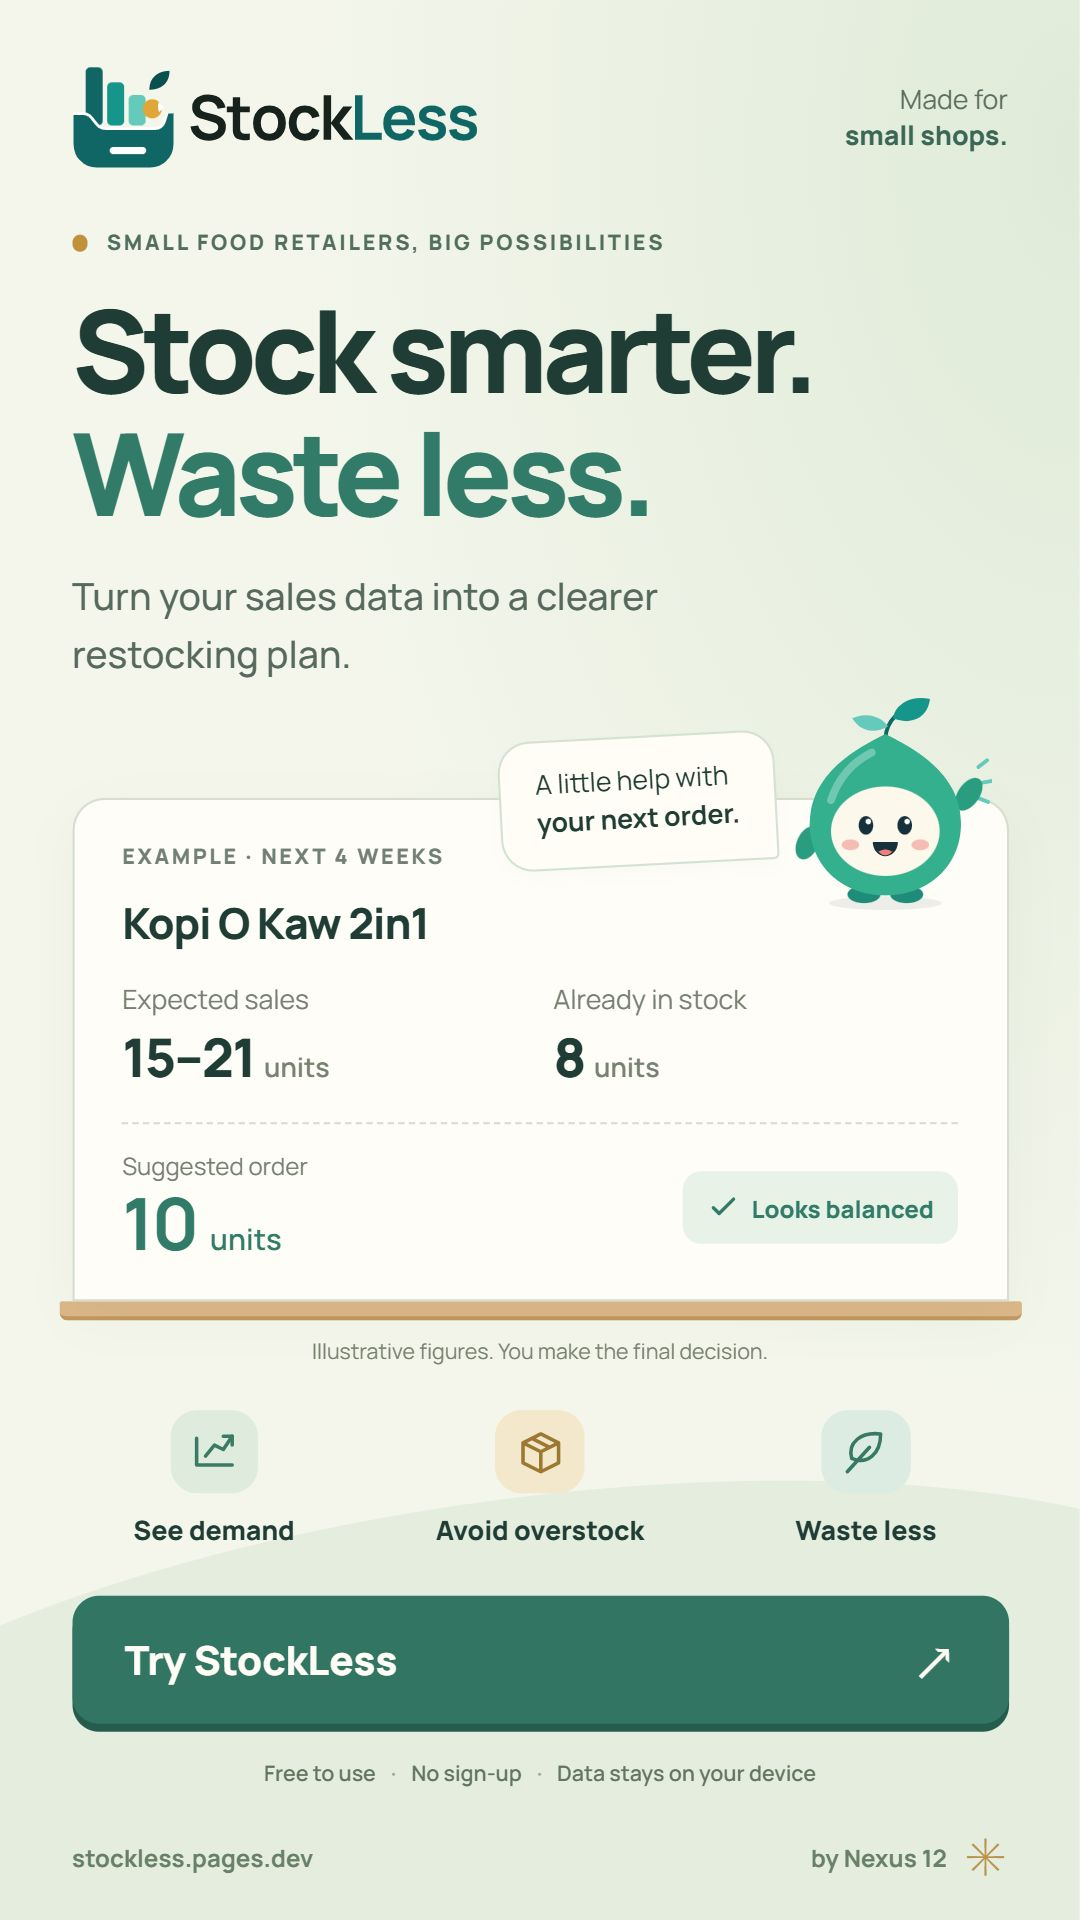
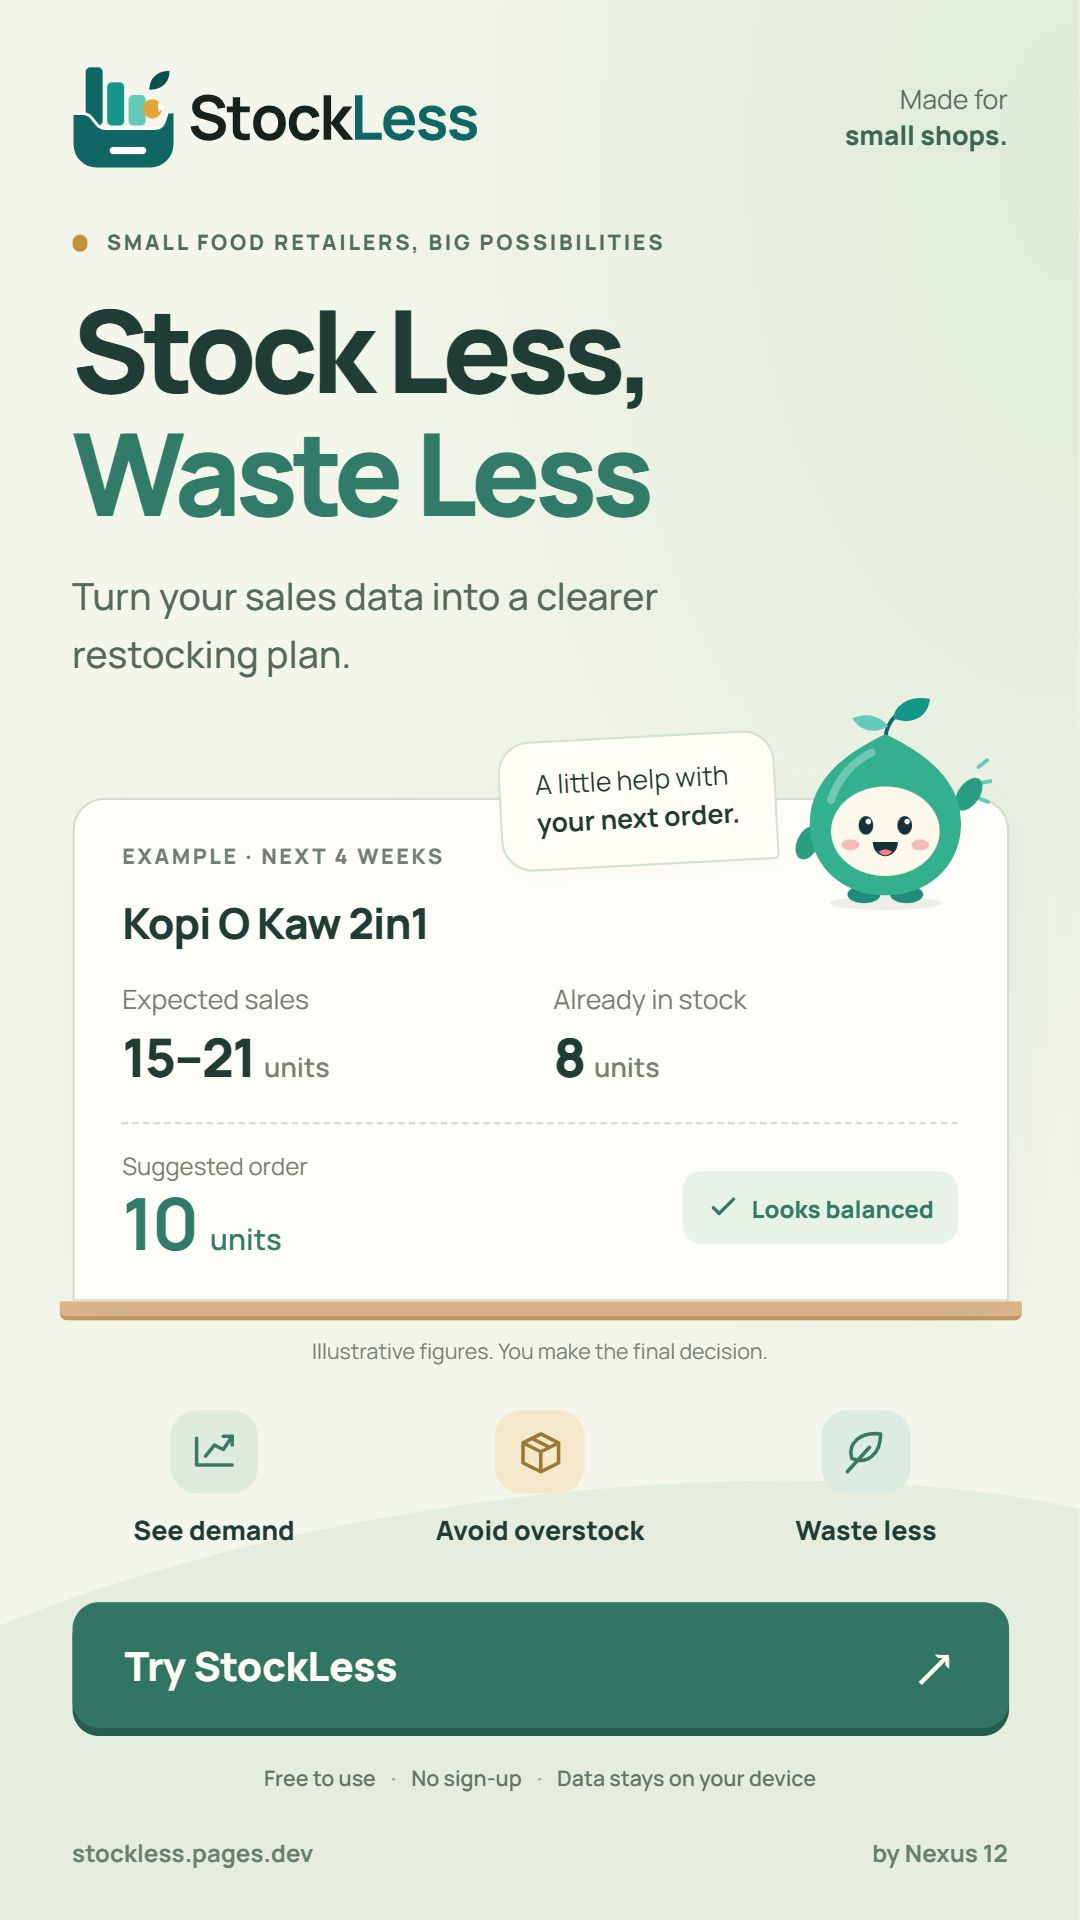
Update expo flyer tagline and simplify footer

diff --git a/frontend/public/flyer/index.html b/frontend/public/flyer/index.html
@@ -4,9 +4,9 @@
     <meta charset="UTF-8" />
     <meta name="viewport" content="width=device-width, initial-scale=1" />
     <meta name="theme-color" content="#edf4e9" />
-    <meta name="description" content="Stock smarter. Waste less. StockLess turns sales data into clearer restocking plans for small food retailers." />
+    <meta name="description" content="Stock Less, Waste Less. StockLess turns sales data into clearer restocking plans for small food retailers." />
     <meta property="og:type" content="website" />
-    <meta property="og:title" content="StockLess | Stock smarter. Waste less." />
+    <meta property="og:title" content="StockLess | Stock Less, Waste Less" />
     <meta property="og:description" content="Smarter restocking for small food retailers. Free to use, with no sign-up." />
     <meta property="og:url" content="https://stockless.pages.dev/flyer/" />
     <meta property="og:image" content="https://stockless.pages.dev/flyer/stockless-flyer.png" />
@@ -17,7 +17,7 @@
     <link rel="preload" href="./manrope-latin.woff2" as="font" type="font/woff2" crossorigin />
     <link rel="stylesheet" href="./flyer.css" />
     <script src="./flyer.js" defer></script>
-    <title>StockLess | Stock smarter. Waste less.</title>
+    <title>StockLess | Stock Less, Waste Less</title>
   </head>
   <body>
     <main class="flyer" aria-labelledby="flyer-title">
@@ -28,7 +28,7 @@
 
       <section class="introduction" aria-labelledby="flyer-title">
         <p class="eyebrow"><span></span> SMALL FOOD RETAILERS, BIG POSSIBILITIES</p>
-        <h1 id="flyer-title">Stock smarter.<br /><em>Waste less.</em></h1>
+        <h1 id="flyer-title">Stock Less,<br /><em>Waste Less</em></h1>
         <p class="lede">Turn your sales data into a clearer<br class="wide-only" /> restocking plan.</p>
       </section>
 
@@ -55,7 +55,7 @@
         <p class="trust">Free to use <span>·</span> No sign-up <span>·</span> Data stays on your device</p>
       </div>
 
-      <footer class="flyer-footer"><span>stockless.pages.dev</span><span>by Nexus 12 <i aria-hidden="true">✳</i></span></footer>
+      <footer class="flyer-footer"><span>stockless.pages.dev</span><span>by Nexus 12</span></footer>
     </main>
 
     <nav class="sharing" aria-label="Keep or share this flyer">

diff --git a/frontend/public/flyer/flyer.css b/frontend/public/flyer/flyer.css
@@ -51,7 +51,6 @@ h1 em{font-style:normal;color:#327b69}
 .trust>span{padding:0 4px;color:#9eac94}
 .flyer-footer{display:flex;justify-content:space-between;align-items:center;gap:12px;margin-top:23px;font-size:9px;font-weight:700;color:#688067;letter-spacing:.05px}
 .flyer-footer>span:last-child{display:flex;align-items:center;gap:6px}
-.flyer-footer i{font-style:normal;font-size:19px;line-height:1;color:#b9924c}
 .sharing{max-width:405px;margin:18px auto 0;display:flex;justify-content:center;align-items:center;gap:24px}
 .sharing a,.sharing button{font:700 12px Manrope,Arial,sans-serif;color:#3e6652;text-decoration:none;display:inline-flex;align-items:center;justify-content:center;gap:7px;min-height:44px;padding:7px;border:0;background:none;cursor:pointer}
 .sharing a:hover,.sharing button:hover{text-decoration:underline}

diff --git a/frontend/public/flyer/flyer.js b/frontend/public/flyer/flyer.js
@@ -9,7 +9,7 @@ if (shareButton && typeof navigator.share === "function") {
   shareButton.addEventListener("click", async () => {
     try {
       await navigator.share({
-        title: "StockLess | Stock smarter. Waste less.",
+        title: "StockLess | Stock Less, Waste Less",
         text: "Smarter restocking for small food retailers.",
         url: "https://stockless.pages.dev/flyer/",
       });
